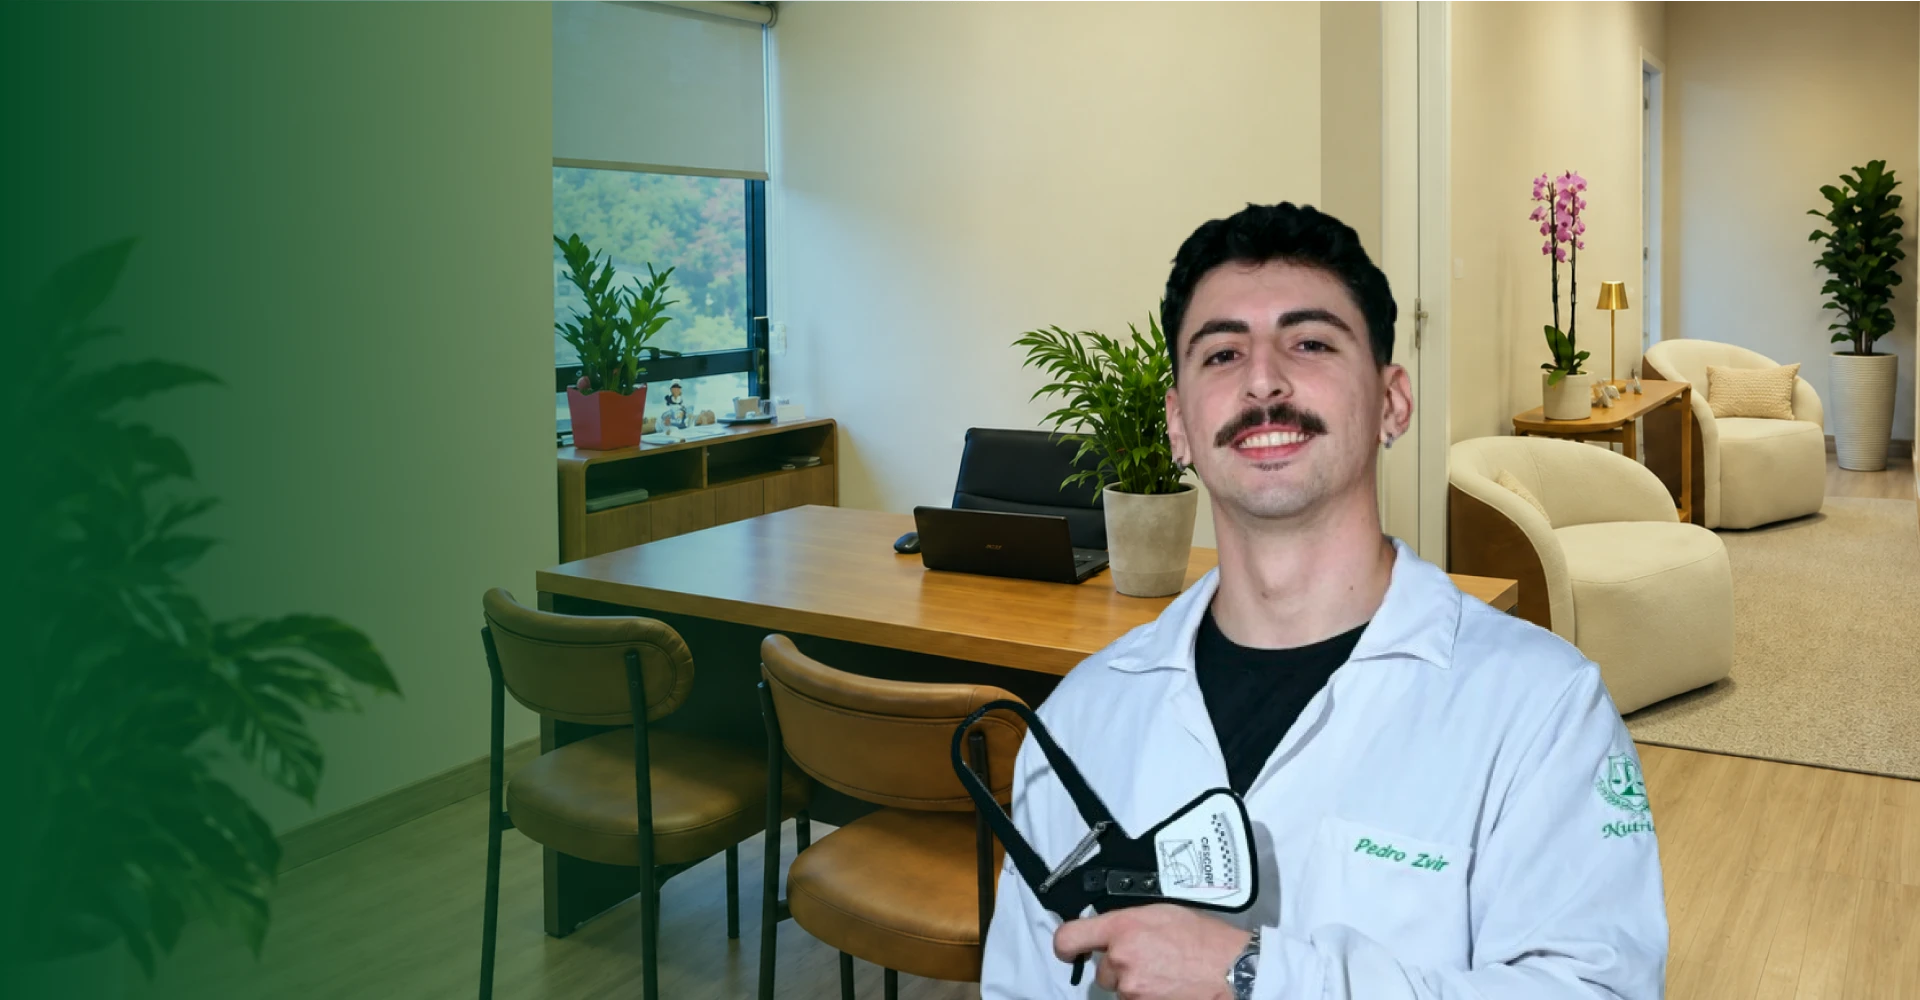
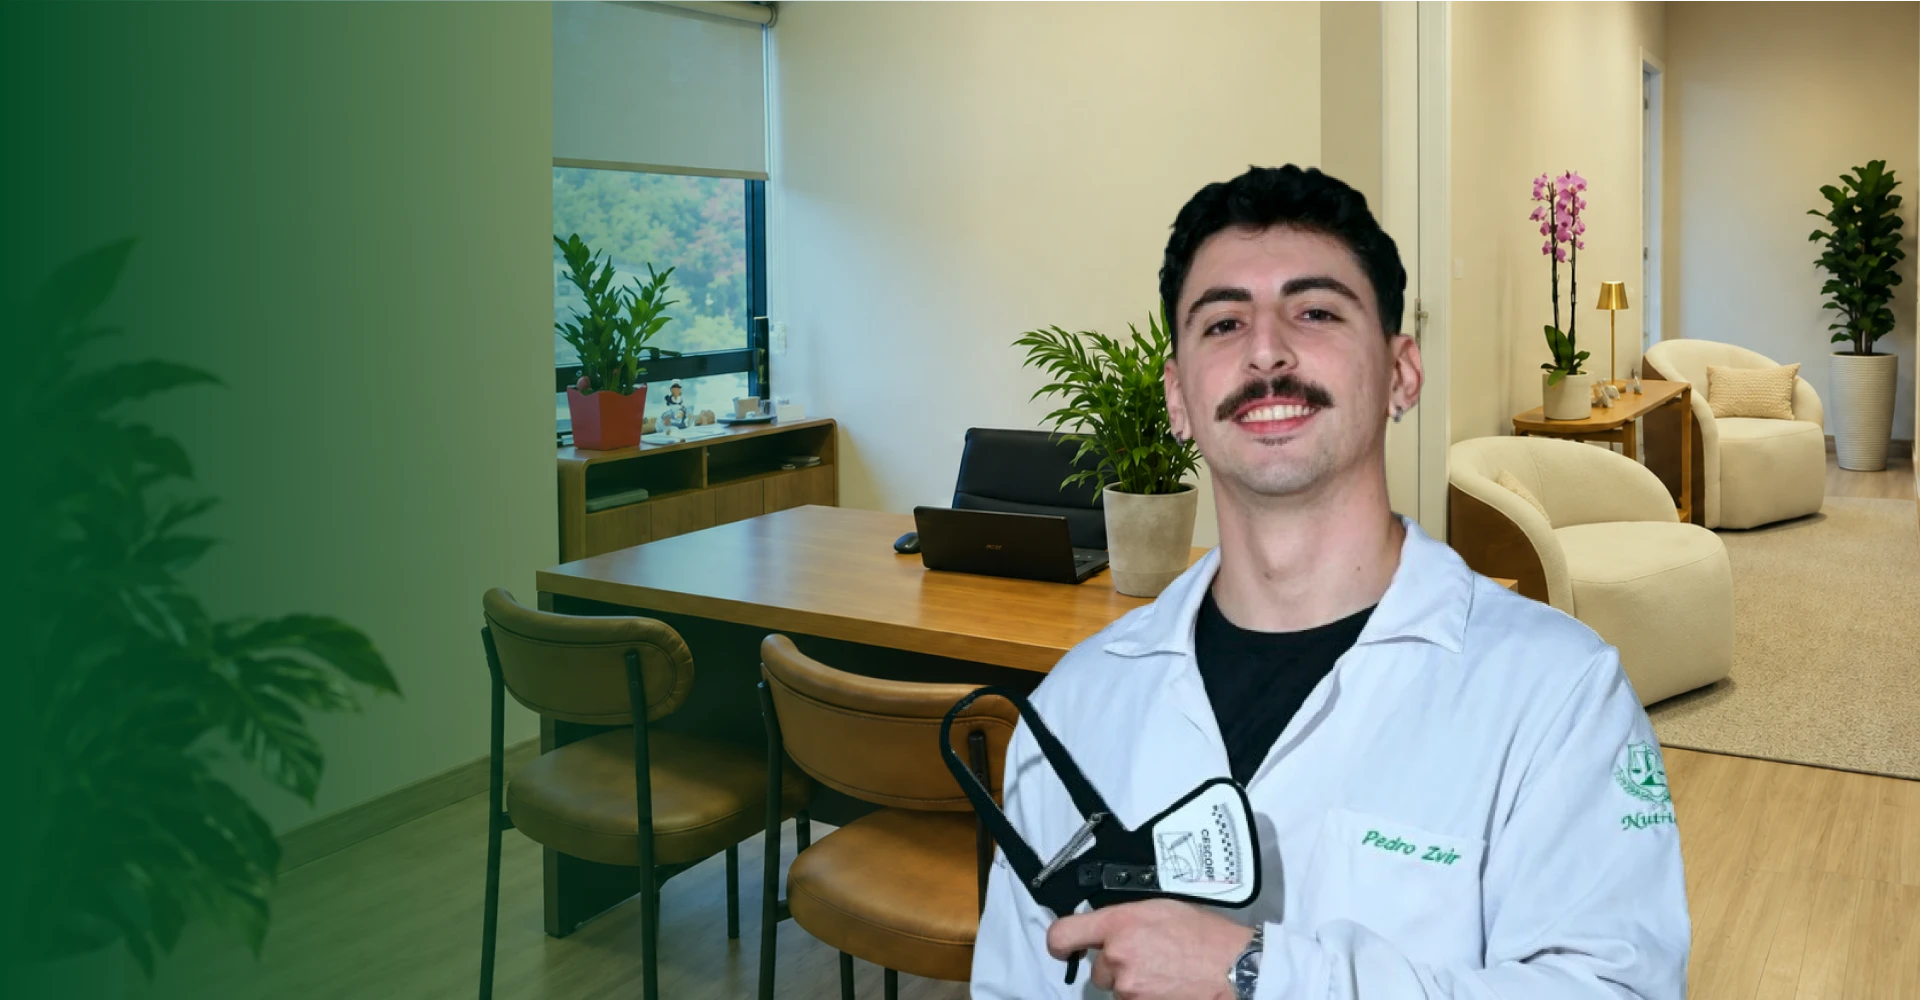
fix(site): remove mobile hero side margin

Changed region(s): [[0.4688, 0.155, 0.9062, 1.0], [0.6875, 0.961, 0.75, 1.0]]

diff --git a/src/styles/global.css b/src/styles/global.css
@@ -330,13 +330,11 @@ summary:focus-visible {
   inset: 0;
   z-index: 1;
   pointer-events: none;
-  background: linear-gradient(
-    90deg,
-    rgba(4, 26, 18, .76) 0%,
-    rgba(4, 26, 18, .58) 27%,
-    rgba(4, 26, 18, .28) 53%,
-    rgba(4, 26, 18, 0) 76%
-  );
+  background: linear-gradient(90deg,
+      rgba(4, 26, 18, .76) 0%,
+      rgba(4, 26, 18, .58) 27%,
+      rgba(4, 26, 18, .28) 53%,
+      rgba(4, 26, 18, 0) 76%);
 }
 
 .hero-bg {
@@ -1079,6 +1077,7 @@ summary:focus-visible {
 }
 
 @media (hover: hover) and (pointer: fine) {
+
   .about-frame:hover img,
   .consultorio-gallery figure:hover img {
     transform: scale(1.035);
@@ -1488,7 +1487,7 @@ summary:focus-visible {
   line-height: 1;
 }
 
-.footer-links > a {
+.footer-links>a {
   color: var(--sage-dark);
   transition: color .28s ease, padding-left .3s cubic-bezier(.22, .61, .36, 1);
 }
@@ -1500,7 +1499,7 @@ summary:focus-visible {
   line-height: 1;
 }
 
-.footer-links > a:hover {
+.footer-links>a:hover {
   color: var(--ink);
   padding-left: 4px;
 }
@@ -1787,13 +1786,14 @@ body.menu-open {
   .hero-visual {
     position: relative;
     inset: auto;
-    width: min(100% - 34px, 620px);
+    width: 100%;
     margin-inline: auto;
   }
 
   .hero-bg {
     position: relative;
     inset: auto;
+    overflow: hidden;
   }
 
   .hero-bg img {
@@ -1802,6 +1802,8 @@ body.menu-open {
     height: auto;
     object-fit: contain;
     object-position: top center;
+    transform: scale(1.08);
+    transform-origin: center top;
   }
 
   .hero-copy {
